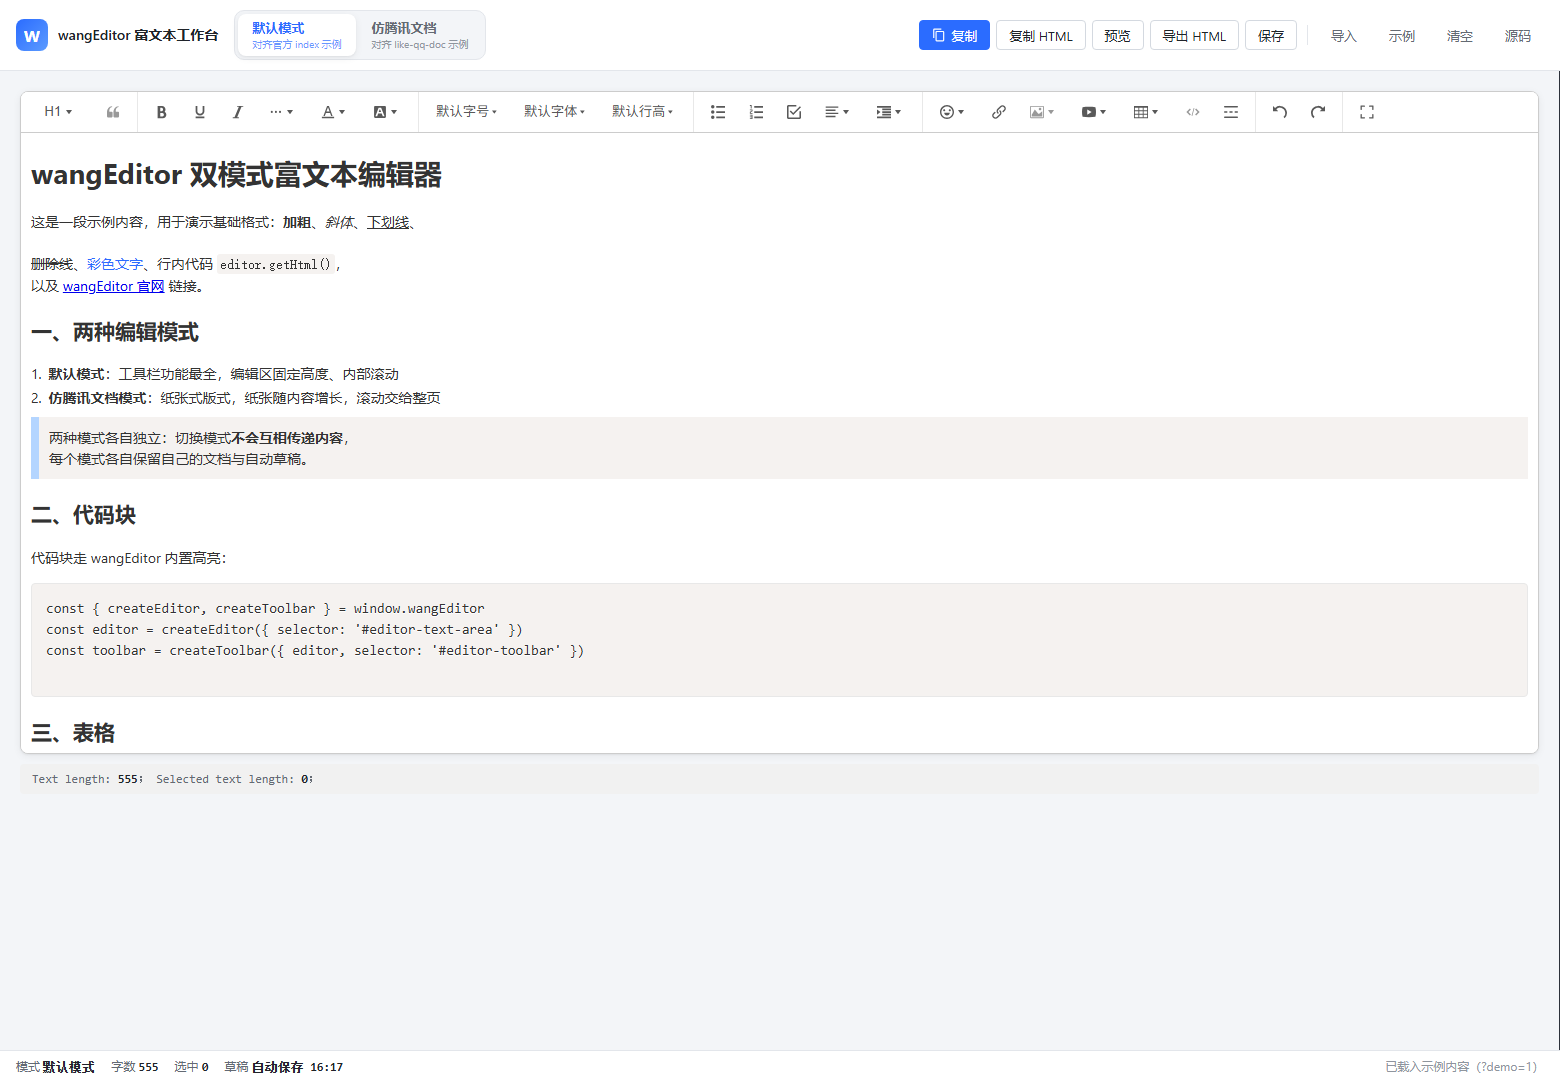
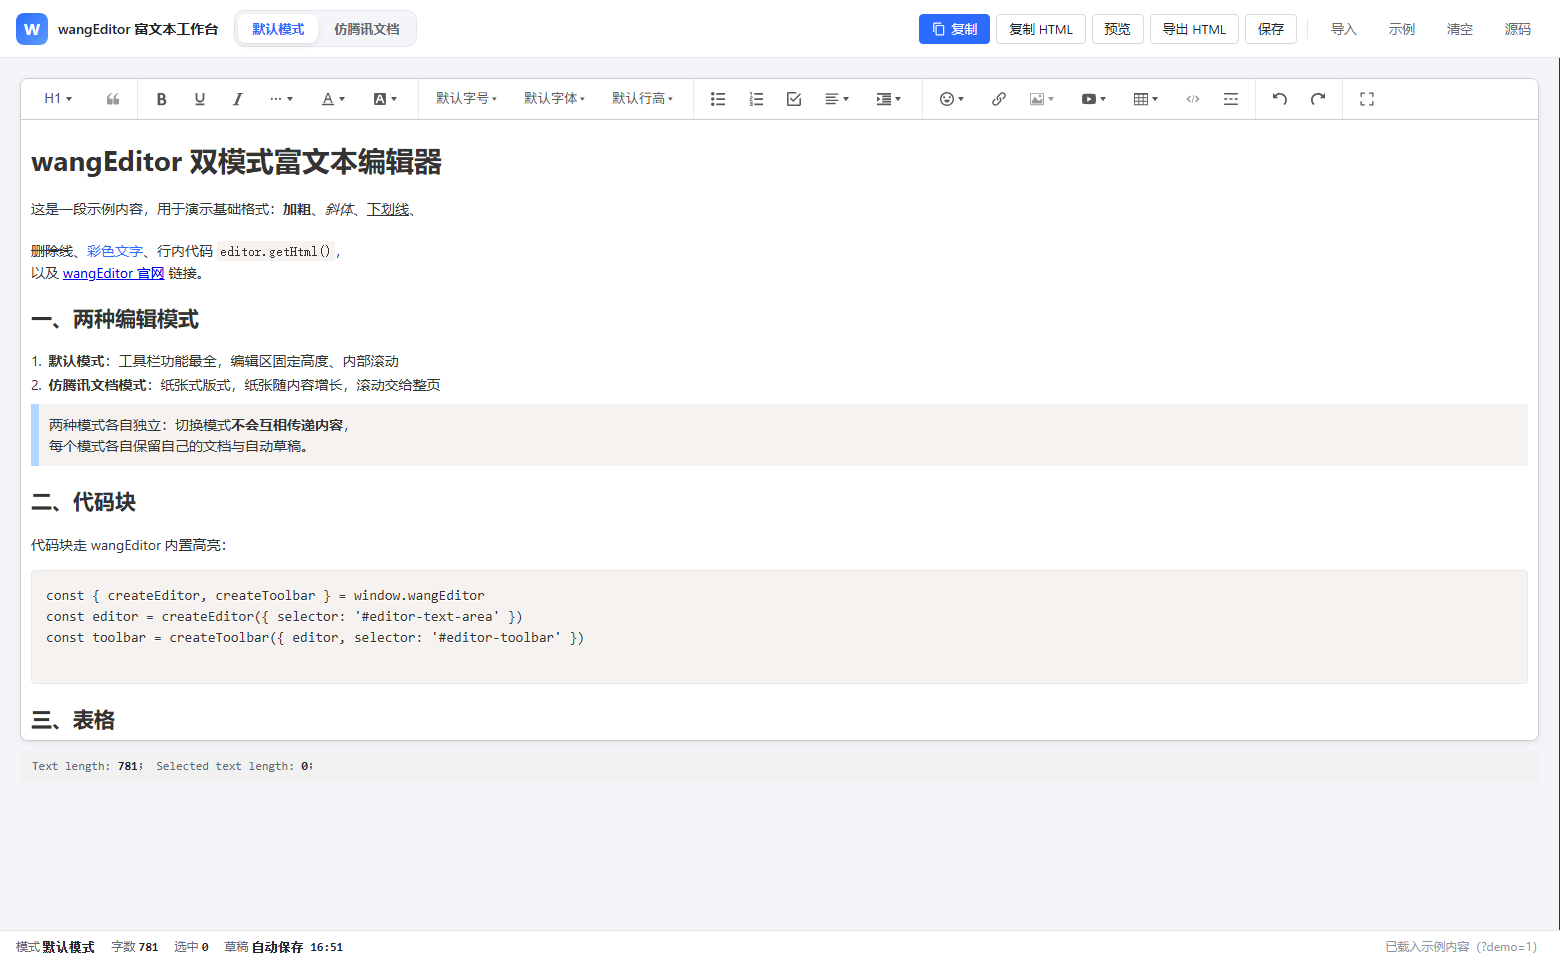
fix: 移除模式按钮注释、修复默认导出左空白、全屏隐藏控件、导出超长文本换行
按反馈修复三处问题：

1) 模式按钮不再显示「对齐官方 index 示例 / 对齐 like-qq-doc 示例」
   - index.html：删除 mode-btn-sub 子元素
   - js/modes/*.mode.js：删除未使用的 tagline 字段
   - css/base.css：删除 mode-btn-sub 样式，按钮改为单行 inline-flex
   - README / CSS / JS 注释中「对齐官方示例」统一改为「设计参考官方示例」

2) 默认模式导出不再左侧大段空白
   - exporter.js：doc--default 由 margin:0 auto 居中改为 margin:0 左侧自然对齐
   - max-width 920px、padding 40px 48px 80px，窄屏降级为 24px 20px 60px

3) 默认模式全屏后显示工具栏并隐藏应用控件
   - editor-factory.js：监听 editor 的 fullScreen / unFullScreen 事件，
     给 body 切换 is-editor-fullscreen 类；销毁时 off 监听并移除类
   - css/base.css：
     · body.is-editor-fullscreen 隐藏 .app-bar / .app-status / .source-drawer
     · .w-e-full-screen-container 提升 z-index 到 1000（顶栏 z-index 20）
     · .w-e-full-screen-container 内的编辑区强制 flex:1，撑满视口

4) 导出 HTML 超长文本自动换行
   - exporter.js BASE_CSS 给 p/li/td/th/h1~h5 增加
     word-wrap:break-word; overflow-wrap:break-word
   - sample.js 新增「四、超长文本换行」演示段落

验证：_selftest.html 断言 64/64 全部通过；新增截图 fullscreen.png。
未推送远端。

diff --git a/css/base.css b/css/base.css
@@ -75,7 +75,7 @@ body {
   letter-spacing: .5px;
 }
 
-.brand-text { display: flex; flex-direction: column; line-height: 1.35; }
+.brand-text { display: flex; align-items: center; }
 .brand-text strong { font-size: 14px; font-weight: 600; }
 
 /* 模式切换（分段控件） */
@@ -89,29 +89,25 @@ body {
 }
 
 .mode-btn {
-  display: flex;
-  flex-direction: column;
-  align-items: flex-start;
-  gap: 1px;
-  padding: 5px 14px;
+  display: inline-flex;
+  align-items: center;
+  padding: 6px 14px;
   border: 0;
   border-radius: 8px;
   background: transparent;
   color: var(--text-2);
   cursor: pointer;
   font-family: inherit;
-  text-align: left;
+  font-size: 13px;
+  font-weight: 600;
   transition: background .18s, color .18s, box-shadow .18s;
 }
 .mode-btn:hover { color: var(--text); background: rgba(43, 108, 255, .06); }
-.mode-btn-title { font-size: 13px; font-weight: 600; }
-.mode-btn-sub { font-size: 10px; color: var(--text-3); }
 .mode-btn.is-active {
   background: var(--panel);
   color: var(--brand);
   box-shadow: var(--shadow-1);
 }
-.mode-btn.is-active .mode-btn-sub { color: var(--brand); opacity: .7; }
 
 /* 操作区 */
 .app-actions {
@@ -396,7 +392,30 @@ body {
   .app-actions { gap: 4px; }
   .btn { padding: 0 9px; font-size: 12px; }
 }
+/* ============================ 编辑器全屏（默认模式） ============================ */
+/* wangEditor 全屏会给 .default-shell 加上 .w-e-full-screen-container，此时需要：
+   1) 隐藏应用自己的顶栏、状态栏、源码抽屉等控件；
+   2) 让全屏容器盖住顶栏（.app-bar z-index:20），并把编辑区撑满剩余空间。 */
+body.is-editor-fullscreen .app-bar,
+body.is-editor-fullscreen .app-status,
+body.is-editor-fullscreen .source-drawer { display: none; }
+
+body.is-editor-fullscreen .app-body {
+  flex: 1;
+  min-height: 0;
+}
+
+.w-e-full-screen-container {
+  z-index: 1000 !important;
+}
+
+.w-e-full-screen-container .default-textarea,
+.w-e-full-screen-container .qqdoc-textarea {
+  flex: 1 !important;
+  height: auto !important;
+  min-height: 0 !important;
+}
+
 @media (max-width: 900px) {
-  .mode-btn-sub { display: none; }
   .source-drawer.is-open { width: 100%; max-width: none; position: absolute; inset: 0; z-index: 30; }
 }

diff --git a/samples/export-sample-default.html b/samples/export-sample-default.html
@@ -6,7 +6,7 @@
 <title></title>
 <meta name="generator" content="wangEditor v5 双模式富文本工作台" />
 <meta name="source-mode" content="default" />
-<meta name="exported-at" content="20261008-1614" />
+<meta name="exported-at" content="20261008-1646" />
 <style>
 :root{--ink:#262626;--ink-2:#5b6066;--line:#e3e6eb;--accent:#2b6cff;--code-bg:#f6f8fa}
 *{box-sizing:border-box}
@@ -16,6 +16,7 @@ body{color:var(--ink);font-size:16px;line-height:1.75;
   -webkit-font-smoothing:antialiased}
 h1,h2,h3,h4,h5{margin:24px 0 12px;line-height:1.4;font-weight:700}
 h1{font-size:26px}h2{font-size:22px}h3{font-size:18px}h4{font-size:16px}h5{font-size:15px}
+p,li,td,th,h1,h2,h3,h4,h5{word-wrap:break-word;overflow-wrap:break-word}
 p{margin:14px 0}
 a{color:var(--accent);text-decoration:none;border-bottom:1px solid rgba(43,108,255,.35)}
 a:hover{border-bottom-color:var(--accent)}
@@ -36,7 +37,8 @@ video{max-width:100%}
 .doc-title{margin:0;font-weight:700}
 @media print{body{background:#fff}.doc{box-shadow:none;margin:0;padding:0;width:auto;max-width:none}}
 body{background:#fff}
-.doc--default{max-width:860px;margin:0 auto;padding:36px 24px 72px}
+.doc--default{max-width:920px;margin:0;padding:40px 48px 80px}
+@media(max-width:680px){.doc--default{padding:24px 20px 60px}}
 .doc--default .doc-title{font-size:28px;line-height:1.35;margin:0 0 20px}
 </style>
 </head>
@@ -69,6 +71,10 @@ const toolbar = createToolbar({ editor, selector: '#editor-toolbar' })
 <tr><td>正文起点</td><td>编辑区顶部</td><td>纸张顶部（无独立标题）</td></tr>
 </tbody>
 </table>
+<h2>四、超长文本换行</h2>
+<p>下面是一行没有空格的英文长串，用于验证导出后是否会像编辑器内一样自动换行：
+ThisIsAVeryLongContinuousEnglishWordUsedToTestWhetherTheExportedHtmlCanWrapCorrectlyWithoutOverflowingTheScreenLikeItDoesInsideTheEditor.
+如果在导出的 HTML 里这串文字超出了可视区域，说明 CSS 换行规则没有对齐编辑器。</p>
 <hr />
 <p>下面可以试试：选中部分文字后点「复制」（富文本会带格式进剪贴板），
 或点「导出 HTML」得到一份可独立打开的文档。</p>

diff --git a/samples/export-sample-qqdoc.html b/samples/export-sample-qqdoc.html
@@ -6,7 +6,7 @@
 <title></title>
 <meta name="generator" content="wangEditor v5 双模式富文本工作台" />
 <meta name="source-mode" content="qqdoc" />
-<meta name="exported-at" content="20261008-1614" />
+<meta name="exported-at" content="20261008-1646" />
 <style>
 :root{--ink:#262626;--ink-2:#5b6066;--line:#e3e6eb;--accent:#2b6cff;--code-bg:#f6f8fa}
 *{box-sizing:border-box}
@@ -16,6 +16,7 @@ body{color:var(--ink);font-size:16px;line-height:1.75;
   -webkit-font-smoothing:antialiased}
 h1,h2,h3,h4,h5{margin:24px 0 12px;line-height:1.4;font-weight:700}
 h1{font-size:26px}h2{font-size:22px}h3{font-size:18px}h4{font-size:16px}h5{font-size:15px}
+p,li,td,th,h1,h2,h3,h4,h5{word-wrap:break-word;overflow-wrap:break-word}
 p{margin:14px 0}
 a{color:var(--accent);text-decoration:none;border-bottom:1px solid rgba(43,108,255,.35)}
 a:hover{border-bottom-color:var(--accent)}
@@ -71,6 +72,10 @@ const toolbar = createToolbar({ editor, selector: '#editor-toolbar' })
 <tr><td>正文起点</td><td>编辑区顶部</td><td>纸张顶部（无独立标题）</td></tr>
 </tbody>
 </table>
+<h2>四、超长文本换行</h2>
+<p>下面是一行没有空格的英文长串，用于验证导出后是否会像编辑器内一样自动换行：
+ThisIsAVeryLongContinuousEnglishWordUsedToTestWhetherTheExportedHtmlCanWrapCorrectlyWithoutOverflowingTheScreenLikeItDoesInsideTheEditor.
+如果在导出的 HTML 里这串文字超出了可视区域，说明 CSS 换行规则没有对齐编辑器。</p>
 <hr />
 <p>下面可以试试：选中部分文字后点「复制」（富文本会带格式进剪贴板），
 或点「导出 HTML」得到一份可独立打开的文档。</p>

diff --git a/js/editor-factory.js b/js/editor-factory.js
@@ -122,6 +122,13 @@
 
     global.document.addEventListener('selectionchange', onSelectionChange);
 
+    // 6) 全屏：隐藏应用自己的顶栏/状态栏/源码抽屉，让编辑器铺满视口；退出时还原
+    var docBody = global.document.body;
+    function onFullScreen() { docBody.classList.add('is-editor-fullscreen'); }
+    function onUnFullScreen() { docBody.classList.remove('is-editor-fullscreen'); }
+    editor.on('fullScreen', onFullScreen);
+    editor.on('unFullScreen', onUnFullScreen);
+
     var instance = {
       mode: mode,
       editor: editor,
@@ -143,6 +150,8 @@
 
       destroy: function () {
         global.document.removeEventListener('selectionchange', onSelectionChange);
+        try { editor.off('fullScreen', onFullScreen); } catch (e) { /* noop */ }
+        try { editor.off('unFullScreen', onUnFullScreen); } catch (e) { /* noop */ }
         if (typeof mode.onUnmount === 'function') {
           try { mode.onUnmount(instance); } catch (e) { /* noop */ }
         }
@@ -150,6 +159,7 @@
           // editor.destroy() 内部会一并销毁 textarea / toolbar / hoverbar
           if (editor && !editor.isDestroyed) editor.destroy();
         } catch (e) { /* noop */ }
+        docBody.classList.remove('is-editor-fullscreen');
         stage.innerHTML = '';
       }
     };

diff --git a/js/features/exporter.js b/js/features/exporter.js
@@ -27,6 +27,7 @@
     /* 标题与正文：与编辑器内所见一致 */
     'h1,h2,h3,h4,h5{margin:24px 0 12px;line-height:1.4;font-weight:700}',
     'h1{font-size:26px}h2{font-size:22px}h3{font-size:18px}h4{font-size:16px}h5{font-size:15px}',
+    'p,li,td,th,h1,h2,h3,h4,h5{word-wrap:break-word;overflow-wrap:break-word}',
     'p{margin:14px 0}',
     'a{color:var(--accent);text-decoration:none;border-bottom:1px solid rgba(43,108,255,.35)}',
     'a:hover{border-bottom-color:var(--accent)}',
@@ -58,9 +59,10 @@
       label: '默认模式',
       wrapperClass: 'doc doc--default',
       css: [
-        /* 朴素阅读态：白底、无卡片装饰、内容居中限宽 */
+        /* 朴素阅读态：白底、无卡片装饰、左侧自然对齐，避免大段空白 */
         'body{background:#fff}',
-        '.doc--default{max-width:860px;margin:0 auto;padding:36px 24px 72px}',
+        '.doc--default{max-width:920px;margin:0;padding:40px 48px 80px}',
+        '@media(max-width:680px){.doc--default{padding:24px 20px 60px}}',
         '.doc--default .doc-title{font-size:28px;line-height:1.35;margin:0 0 20px}'
       ].join('\n')
     },

diff --git a/js/modes/default.mode.js b/js/modes/default.mode.js
@@ -1,6 +1,6 @@
 /* ==========================================================================
    default.mode.js — 「默认模式」定义
-   对齐官方示例 https://www.wangeditor.com/demo/index.html
+   设计参考官方示例 https://www.wangeditor.com/demo/index.html
      · 全量工具栏（toolbarConfig 为空对象，交给 wangEditor 默认配置）
      · 1px 边框容器包裹「工具栏 + 编辑区」，两者之间 1px 分隔线
      · 编辑区固定高度，超出部分由编辑器内部滚动（scroll: true）
@@ -16,8 +16,7 @@
   Modes['default'] = {
     id: 'default',
     label: '默认模式',
-    tagline: '官方 index 示例',
-    description: '全量工具栏 + 边框容器，编辑器内部滚动，功能与官方 demo 一致。',
+    description: '全量工具栏 + 边框容器，编辑器内部滚动，适合博客与 BBS 长文编辑。',
 
     template: [
       '<div class="default-layout">',

diff --git a/index.html b/index.html
@@ -24,14 +24,8 @@
       </div>
 
       <nav class="mode-switch" role="tablist" aria-label="编辑模式切换">
-        <button class="mode-btn" type="button" role="tab" data-mode="default" aria-selected="true">
-          <span class="mode-btn-title">默认模式</span>
-          <span class="mode-btn-sub">对齐官方 index 示例</span>
-        </button>
-        <button class="mode-btn" type="button" role="tab" data-mode="qqdoc" aria-selected="false">
-          <span class="mode-btn-title">仿腾讯文档</span>
-          <span class="mode-btn-sub">对齐 like-qq-doc 示例</span>
-        </button>
+        <button class="mode-btn" type="button" role="tab" data-mode="default" aria-selected="true">默认模式</button>
+        <button class="mode-btn" type="button" role="tab" data-mode="qqdoc" aria-selected="false">仿腾讯文档</button>
       </nav>
 
       <div class="app-actions">

diff --git a/css/mode-qqdoc.css b/css/mode-qqdoc.css
@@ -1,8 +1,8 @@
 /* ==========================================================================
    mode-qqdoc.css — 「仿腾讯文档模式」皮肤
-   结构与关键数值对齐官方示例：https://www.wangeditor.com/demo/like-qq-doc.html
-     · 工具栏贴顶、整行居中（官方 1350px / #FCFCFC 背景），隐藏「全屏」菜单
-     · 内容区浅灰底 + 居中「纸张」（官方 850px、白底、描边 + 阴影）
+   设计参考官方示例：https://www.wangeditor.com/demo/like-qq-doc.html
+     · 工具栏贴顶、整行居中（1350px / #FCFCFC 背景），隐藏「全屏」菜单
+     · 内容区浅灰底 + 居中 850px 白色纸张（描边 + 阴影）
      · 纸张内无独立标题栏，开头即正文
      · 编辑器配置 scroll:false —— 滚动交给外层内容区
    ========================================================================== */

diff --git a/samples/export-sample-empty.html b/samples/export-sample-empty.html
@@ -6,7 +6,7 @@
 <title></title>
 <meta name="generator" content="wangEditor v5 双模式富文本工作台" />
 <meta name="source-mode" content="qqdoc" />
-<meta name="exported-at" content="20261008-1614" />
+<meta name="exported-at" content="20261008-1646" />
 <style>
 :root{--ink:#262626;--ink-2:#5b6066;--line:#e3e6eb;--accent:#2b6cff;--code-bg:#f6f8fa}
 *{box-sizing:border-box}
@@ -16,6 +16,7 @@ body{color:var(--ink);font-size:16px;line-height:1.75;
   -webkit-font-smoothing:antialiased}
 h1,h2,h3,h4,h5{margin:24px 0 12px;line-height:1.4;font-weight:700}
 h1{font-size:26px}h2{font-size:22px}h3{font-size:18px}h4{font-size:16px}h5{font-size:15px}
+p,li,td,th,h1,h2,h3,h4,h5{word-wrap:break-word;overflow-wrap:break-word}
 p{margin:14px 0}
 a{color:var(--accent);text-decoration:none;border-bottom:1px solid rgba(43,108,255,.35)}
 a:hover{border-bottom-color:var(--accent)}

diff --git a/_selftest.html b/_selftest.html
@@ -134,6 +134,12 @@
         emptyDefault.indexOf('#f2f2f2') < 0);
       check('仿腾讯文档导出为灰底 + 850px 白纸',
         emptyQqdoc.indexOf('#f2f2f2') >= 0 && emptyQqdoc.indexOf('width:850px') >= 0);
+      check('默认模式导出内容左侧对齐（不再居中产生大段空白）',
+        emptyDefault.indexOf('margin:0 auto') < 0 && emptyDefault.indexOf('margin:0;') >= 0);
+      check('导出 HTML 包含换行样式（超长文本不溢出屏幕）',
+        emptyDefault.indexOf('overflow-wrap:break-word') >= 0);
+      check('模式按钮上不再出现「对齐xxx示例」的注释文案',
+        !d.querySelector('.mode-btn-sub'));
 
       /* ---------- E. 本地存储 ---------- */
       var slot = w.AppStorage.saveSlot('自检存档', { html: html, title: '自检', mode: 'default' });

diff --git a/js/modes/qqdoc.mode.js b/js/modes/qqdoc.mode.js
@@ -1,6 +1,6 @@
 /* ==========================================================================
    qqdoc.mode.js — 「仿腾讯文档模式」定义
-   对齐官方示例 https://www.wangeditor.com/demo/like-qq-doc.html
+   设计参考官方示例 https://www.wangeditor.com/demo/like-qq-doc.html
      · 工具栏贴顶、整行居中（1350px / #FCFCFC），排除「全屏」菜单
      · 浅灰画布 + 居中 850px 白色纸张（描边 + 阴影）
      · 纸张内**没有独立标题栏**，开头即正文
@@ -17,7 +17,6 @@
   Modes['qqdoc'] = {
     id: 'qqdoc',
     label: '仿腾讯文档',
-    tagline: 'like-qq-doc 示例',
     description: '在线文档式版面：纸张居中、页面级滚动，适合沉浸式长文写作。',
 
     template: [

diff --git a/js/content/sample.js b/js/content/sample.js
@@ -39,6 +39,10 @@
       '</tbody>',
       '</table>',
 
+      '<h2>四、超长文本换行</h2>',
+      '<p>下面是一行没有空格的英文长串，用于验证导出后是否会像编辑器内一样自动换行：',
+      'ThisIsAVeryLongContinuousEnglishWordUsedToTestWhetherTheExportedHtmlCanWrapCorrectlyWithoutOverflowingTheScreenLikeItDoesInsideTheEditor.',
+      '如果在导出的 HTML 里这串文字超出了可视区域，说明 CSS 换行规则没有对齐编辑器。</p>',
       '<hr />',
       '<p>下面可以试试：选中部分文字后点「复制」（富文本会带格式进剪贴板），',
       '或点「导出 HTML」得到一份可独立打开的文档。</p>',
